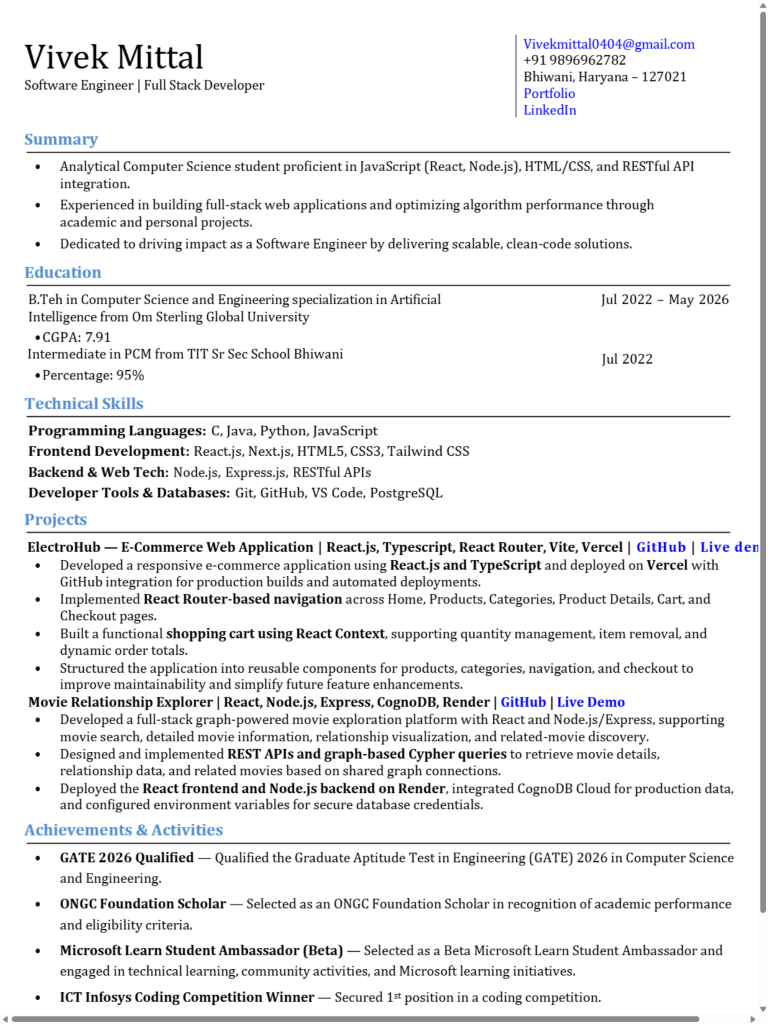
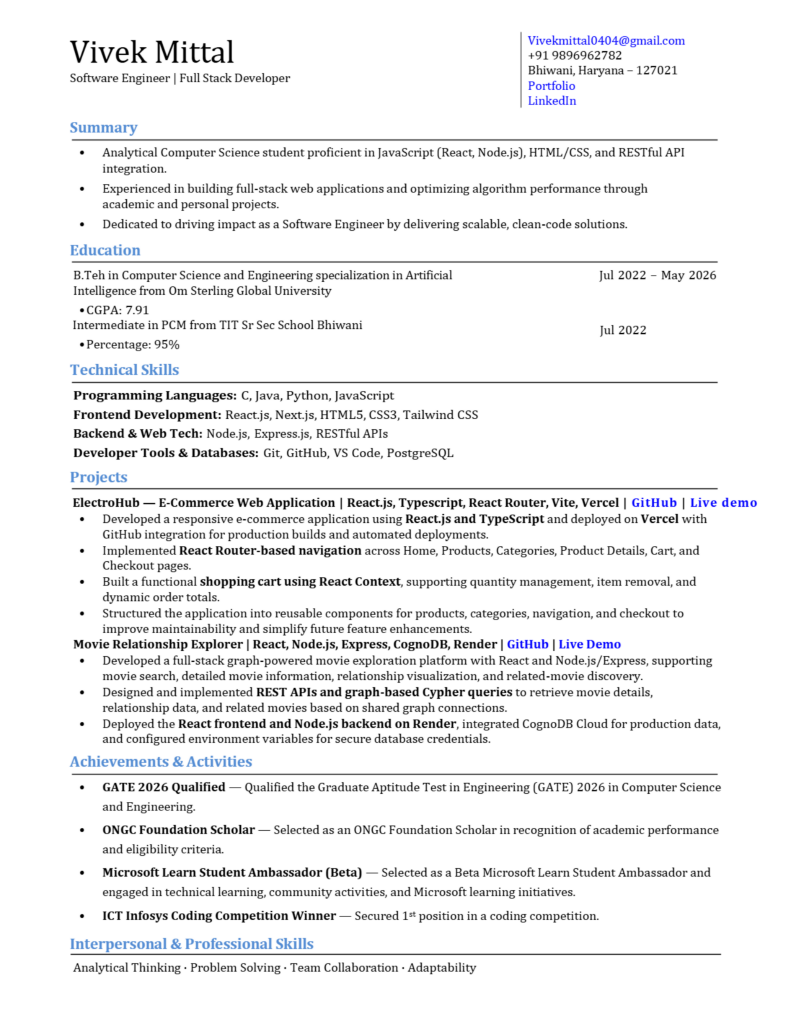
Mobile view of resume is updated

Changed region(s): [[0.0, 0.0, 1.0, 1.0]]

diff --git a/components/ResumeDoor.jsx b/components/ResumeDoor.jsx
@@ -62,6 +62,10 @@ export default function ResumeDoor({ buttonRef }) {
   const [origin, setOrigin] = useState({ x: 0, y: 0, scaleX: 0.15, scaleY: 0.05 });
   const [resumeUrl, setResumeUrl] = useState("/resume.pdf?v=20261119");
   const [isMobile, setIsMobile] = useState(false);
+  const [zoomScale, setZoomScale] = useState(1);
+  const touchStartDistRef = useRef(0);
+  const initialZoomRef = useRef(1);
+  const lastTapRef = useRef(0);
   const openTimerRef = useRef(null);
   const closeTimerRef = useRef(null);
 
@@ -75,6 +79,52 @@ export default function ResumeDoor({ buttonRef }) {
       window.removeEventListener("orientationchange", update);
     };
   }, []);
+
+  const handleZoomIn = () => {
+    setZoomScale((prev) => Math.min(2.5, Math.round((prev + 0.25) * 100) / 100));
+  };
+
+  const handleZoomOut = () => {
+    setZoomScale((prev) => Math.max(1.0, Math.round((prev - 0.25) * 100) / 100));
+  };
+
+  const handleZoomReset = () => {
+    setZoomScale(1.0);
+  };
+
+  const handleTouchStart = (e) => {
+    if (e.touches.length === 2) {
+      const dist = Math.hypot(
+        e.touches[0].clientX - e.touches[1].clientX,
+        e.touches[0].clientY - e.touches[1].clientY
+      );
+      touchStartDistRef.current = dist;
+      initialZoomRef.current = zoomScale;
+    } else if (e.touches.length === 1) {
+      const now = Date.now();
+      if (now - lastTapRef.current < 300) {
+        // Double tap toggles between 1.0x and 1.5x
+        setZoomScale((prev) => (prev > 1.1 ? 1.0 : 1.5));
+      }
+      lastTapRef.current = now;
+    }
+  };
+
+  const handleTouchMove = (e) => {
+    if (e.touches.length === 2 && touchStartDistRef.current > 0) {
+      const dist = Math.hypot(
+        e.touches[0].clientX - e.touches[1].clientX,
+        e.touches[0].clientY - e.touches[1].clientY
+      );
+      const ratio = dist / touchStartDistRef.current;
+      const newScale = Math.min(2.5, Math.max(1.0, initialZoomRef.current * ratio));
+      setZoomScale(Math.round(newScale * 100) / 100);
+    }
+  };
+
+  const handleTouchEnd = () => {
+    touchStartDistRef.current = 0;
+  };
 
   const calculateOrigin = useCallback(() => {
     if (buttonRef?.current && typeof window !== "undefined") {
@@ -99,6 +149,7 @@ export default function ResumeDoor({ buttonRef }) {
 
     // Re-evaluate device/browser support freshly at the exact moment of click
     setIsMobile(isMobileOrNoPdfSupport());
+    setZoomScale(1.0);
 
     const anonymousId =
       typeof window !== "undefined"
@@ -125,7 +176,7 @@ export default function ResumeDoor({ buttonRef }) {
     // Stage 2: Expand smoothly from button to full screen
     requestAnimationFrame(() => {
       requestAnimationFrame(() => {
-        setStage("expanded");
+        setStage((prev) => (prev === "expanding" ? "expanded" : prev));
       });
     });
 
@@ -138,6 +189,7 @@ export default function ResumeDoor({ buttonRef }) {
   const closeResume = useCallback(() => {
     if (openTimerRef.current) clearTimeout(openTimerRef.current);
     if (closeTimerRef.current) clearTimeout(closeTimerRef.current);
+    setZoomScale(1.0);
 
     // Refresh button coordinates in case of any viewport adjustments
     const coords = calculateOrigin();
@@ -222,47 +274,80 @@ export default function ResumeDoor({ buttonRef }) {
             <div className="resume-document-wrapper">
               {/* Floating Top Control Bar */}
               <div className="resume-toolbar">
-                <div className="flex items-center gap-2.5">
-                  <div className="h-2 w-2 rounded-full bg-blue-400 animate-pulse" />
-                  <span className="text-xs md:text-sm font-medium text-gray-200">
-                    Vivek Mittal &bull; Full Stack Developer Resume
+                <div className="flex items-center gap-2 min-w-0">
+                  <div className="h-2 w-2 rounded-full bg-blue-400 animate-pulse shrink-0" />
+                  <span className="text-xs md:text-sm font-medium text-gray-200 truncate">
+                    <span className="hidden sm:inline">Vivek Mittal &bull; Full Stack Developer Resume</span>
+                    <span className="inline sm:hidden">Resume</span>
                   </span>
                 </div>
 
-                <div className="flex items-center gap-2 md:gap-3">
+                <div className="flex items-center gap-1.5 sm:gap-2.5 shrink-0">
+                  {/* Zoom Controls (+ / - / Reset) */}
+                  <div className="flex items-center rounded-full border border-white/10 bg-white/5 p-0.5 text-xs text-gray-300">
+                    <button
+                      type="button"
+                      onClick={handleZoomOut}
+                      disabled={zoomScale <= 1.0}
+                      className="h-6 w-6 flex items-center justify-center rounded-full text-sm font-bold hover:bg-white/10 hover:text-white disabled:opacity-30 disabled:hover:bg-transparent"
+                      title="Zoom Out"
+                      aria-label="Zoom Out"
+                    >
+                      −
+                    </button>
+                    <button
+                      type="button"
+                      onClick={handleZoomReset}
+                      className="px-1.5 font-mono text-[11px] font-semibold hover:text-blue-400 transition-colors"
+                      title="Reset Zoom to 100%"
+                    >
+                      {Math.round(zoomScale * 100)}%
+                    </button>
+                    <button
+                      type="button"
+                      onClick={handleZoomIn}
+                      disabled={zoomScale >= 2.5}
+                      className="h-6 w-6 flex items-center justify-center rounded-full text-sm font-bold hover:bg-white/10 hover:text-white disabled:opacity-30 disabled:hover:bg-transparent"
+                      title="Zoom In"
+                      aria-label="Zoom In"
+                    >
+                      +
+                    </button>
+                  </div>
+
                   <a
-                    href="/resume.pdf?v=20261118"
+                    href="/resume.pdf?v=20261119"
                     download="Vivek_Mittal_Resume.pdf"
-                    className="inline-flex items-center gap-1.5 rounded-full border border-white/10 bg-white/5 px-3.5 py-1.5 text-xs text-gray-300 transition-all hover:border-blue-400/50 hover:bg-blue-500/15 hover:text-white"
+                    className="inline-flex items-center gap-1.5 rounded-full border border-white/10 bg-white/5 px-2.5 sm:px-3 py-1.5 text-xs text-gray-300 transition-all hover:border-blue-400/50 hover:bg-blue-500/15 hover:text-white"
                     title="Download PDF"
                   >
                     <svg className="h-3.5 w-3.5" fill="none" stroke="currentColor" viewBox="0 0 24 24">
                       <path strokeLinecap="round" strokeLinejoin="round" strokeWidth="2" d="M4 16v1a3 3 0 003 3h10a3 3 0 003-3v-1m-4-4l-4 4m0 0l-4-4m4 4V4" />
                     </svg>
-                    <span className="hidden sm:inline">Download</span>
+                    <span className="hidden md:inline">Download</span>
                   </a>
 
                   <a
-                    href="/resume.pdf?v=20261118"
+                    href="/resume.pdf?v=20261119"
                     target="_blank"
                     rel="noopener noreferrer"
-                    className="inline-flex items-center gap-1.5 rounded-full border border-white/10 bg-white/5 px-3.5 py-1.5 text-xs text-gray-300 transition-all hover:border-blue-400/50 hover:bg-blue-500/15 hover:text-white"
+                    className="inline-flex items-center gap-1.5 rounded-full border border-white/10 bg-white/5 px-2.5 sm:px-3 py-1.5 text-xs text-gray-300 transition-all hover:border-blue-400/50 hover:bg-blue-500/15 hover:text-white"
                     title="Open in new tab"
                   >
                     <svg className="h-3.5 w-3.5" fill="none" stroke="currentColor" viewBox="0 0 24 24">
                       <path strokeLinecap="round" strokeLinejoin="round" strokeWidth="2" d="M10 6H6a2 2 0 00-2 2v10a2 2 0 002 2h10a2 2 0 002-2v-4M14 4h6m0 0v6m0-6L10 14" />
                     </svg>
-                    <span className="hidden sm:inline">New Tab</span>
+                    <span className="hidden md:inline">New Tab</span>
                   </a>
 
                   <button
                     type="button"
                     onClick={closeResume}
-                    className="inline-flex items-center gap-1.5 rounded-full border border-white/20 bg-white/10 px-3.5 py-1.5 text-xs font-medium text-white transition-all hover:bg-red-500/20 hover:border-red-400/50 active:scale-95"
+                    className="inline-flex items-center gap-1.5 rounded-full border border-white/20 bg-white/10 px-2.5 sm:px-3 py-1.5 text-xs font-medium text-white transition-all hover:bg-red-500/20 hover:border-red-400/50 active:scale-95"
                     aria-label="Close resume"
                   >
                     <span>Close</span>
-                    <span className="text-gray-400 text-[10px] hidden sm:inline">[ESC]</span>
+                    <span className="text-gray-400 text-[10px] hidden md:inline">[ESC]</span>
                   </button>
                 </div>
               </div>
@@ -270,16 +355,35 @@ export default function ResumeDoor({ buttonRef }) {
               {/* PDF Container */}
               <div className="resume-document">
                 {isMobile ? (
-                  /* Mobile view: Direct crisp retina preview image */
-                  /* Completely avoids mounting any <iframe> in DOM, permanently eliminating Android Chrome's "Open PDF" prompt */
-                  <div className="w-full h-full overflow-y-auto overflow-x-hidden p-2 sm:p-4 bg-[#0d1117] flex flex-col items-center touch-pan-y">
-                    <img
-                      src="/resume-preview.png?v=20261119"
-                      alt="Vivek Mittal - Full Stack Developer Resume"
-                      className="w-full h-auto max-w-[850px] rounded-lg shadow-2xl object-contain select-none mx-auto block"
-                      loading="eager"
-                      decoding="async"
-                    />
+                  /* Mobile view: Direct crisp retina preview with pinch-to-zoom, momentum scrolling & zero waste scrollbars */
+                  <div
+                    className={`w-full h-full p-2 sm:p-4 bg-[#0d1117] flex flex-col items-center select-none overscroll-contain ${
+                      zoomScale > 1 ? "overflow-auto" : "overflow-y-auto overflow-x-hidden"
+                    }`}
+                    style={{
+                      WebkitOverflowScrolling: "touch",
+                      touchAction: zoomScale > 1 ? "pan-x pan-y pinch-zoom" : "pan-y pinch-zoom",
+                    }}
+                    onTouchStart={handleTouchStart}
+                    onTouchMove={handleTouchMove}
+                    onTouchEnd={handleTouchEnd}
+                  >
+                    <div
+                      className="transition-transform duration-100 ease-out flex justify-center w-full"
+                      style={{
+                        transform: zoomScale > 1 ? `scale(${zoomScale})` : "none",
+                        transformOrigin: "top center",
+                        margin: zoomScale > 1 ? `${(zoomScale - 1) * 30}% 0` : "0",
+                      }}
+                    >
+                      <img
+                        src="/resume-preview.png?v=20261119c"
+                        alt="Vivek Mittal - Full Stack Developer Resume"
+                        className="w-full h-auto max-w-[850px] rounded-lg shadow-2xl object-contain block mx-auto pointer-events-auto"
+                        loading="eager"
+                        decoding="async"
+                      />
+                    </div>
                   </div>
                 ) : (
                   /* Desktop view: Native interactive PDF iframe */

diff --git a/app/globals.css b/app/globals.css
@@ -465,6 +465,7 @@ body {
 
 .resume-document {
   flex: 1;
+  min-height: 0;
   width: 100%;
   height: 100%;
   background: #11141d;
@@ -472,6 +473,26 @@ body {
   z-index: 110;
   pointer-events: auto;
   overflow: hidden;
+}
+
+.resume-document *::-webkit-scrollbar:horizontal {
+  display: none !important;
+  height: 0px !important;
+  width: 0px !important;
+}
+
+.resume-document *::-webkit-scrollbar {
+  width: 5px;
+  height: 0px;
+}
+
+.resume-document *::-webkit-scrollbar-thumb {
+  background: rgba(255, 255, 255, 0.2);
+  border-radius: 9999px;
+}
+
+.resume-document *::-webkit-scrollbar-track {
+  background: transparent;
 }
 
 .resume-document iframe {
